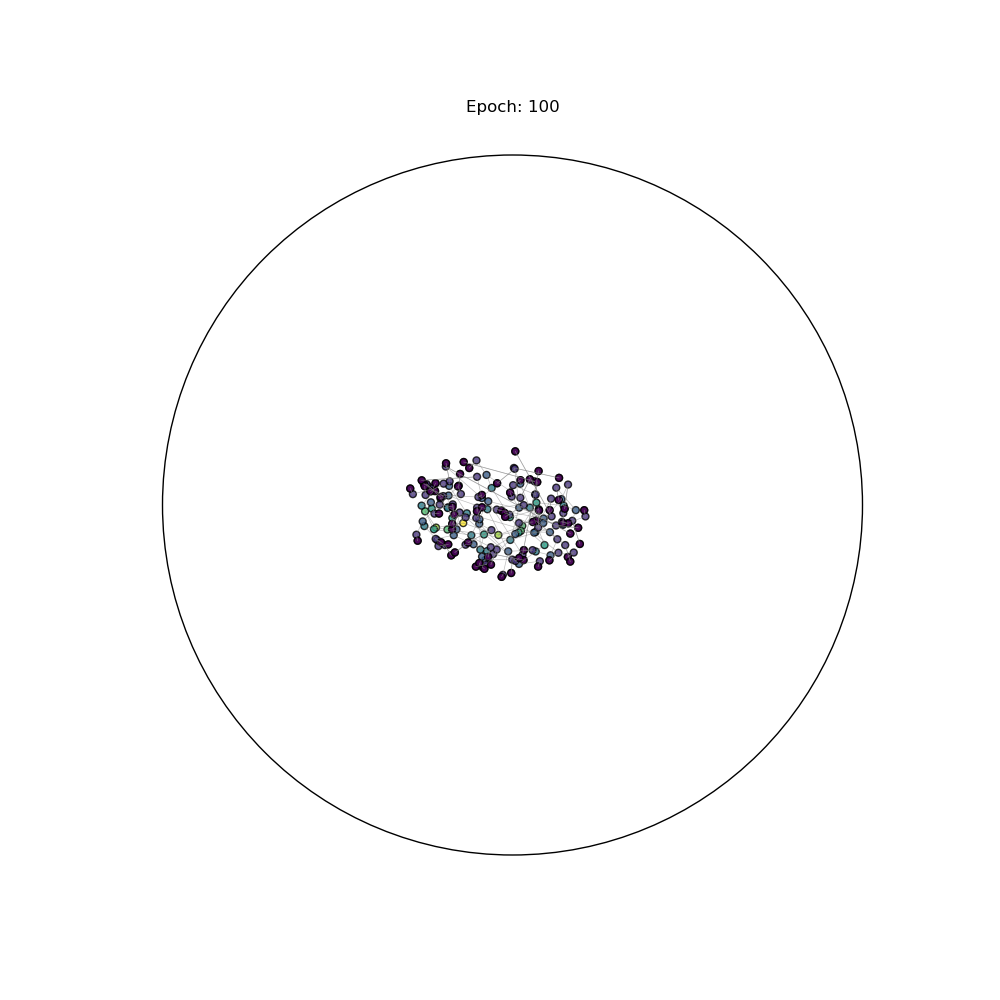
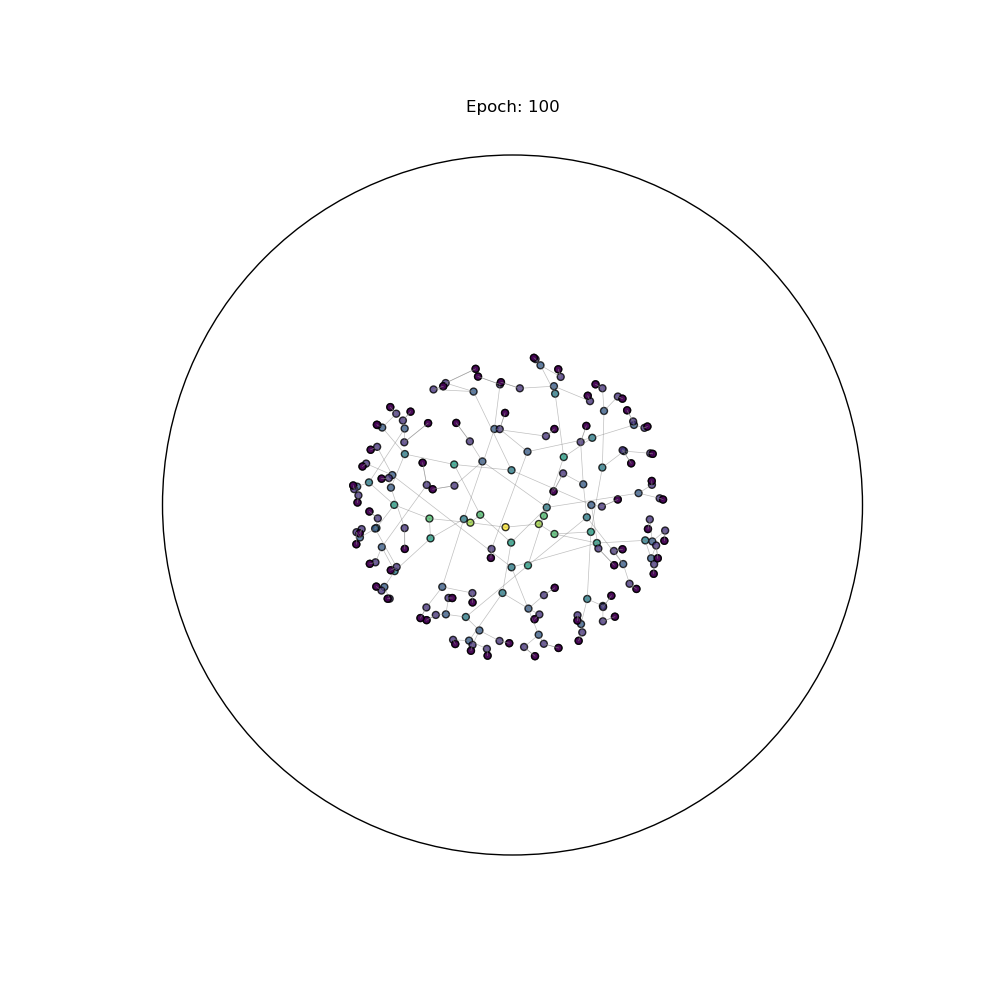
remove redundant code

Changed region(s): [[0.341, 0.341, 0.682, 0.682]]

diff --git a/minimal/train_hyper_synth.py b/minimal/train_hyper_synth.py
@@ -4,16 +4,18 @@ import os
 import torch
 import torch.optim as optim
 import networkx as nx
+import torch.nn as nn
 from models.hgcn import HGCN
 import matplotlib.pyplot as plt
 
 from manifolds.hyperboloid import Hyperboloid
 
-from utils.load_virginia import load_synthetic_data
+from utils.load_data import load_synthetic_data
 
 import shutil
 
-shutil.rmtree('./img')
+if os.path.exists('./img'):
+  shutil.rmtree('./img')
 os.mkdir("./img")
 
 
@@ -34,135 +36,75 @@ else:
 
 print("CUDA Status is: ", device)
 
-
 # Load data
-weight_mat, pos_mask, neg_mask, features, G = load_synthetic_data()
+adj, features, G = load_synthetic_data()
 
 paths = nx.shortest_path_length(G,0)
 
 colors = [x[1] for x in paths.items()]
 
-adj = []
-
-for idx1, row in enumerate(pos_mask):
-    for idx2, v in enumerate(row):
-      if v == 1 and idx2 >= idx1:
-        adj.append((idx1, idx2))
-
-
-
-# init_c = nn.Parameter(torch.Tensor([1.]))
-# init_c = 0.25
-# hid_c = nn.Parameter(torch.Tensor([0.6]))
-# out_c = nn.Parameter(torch.Tensor([0.5]))
-
-init_c = 1.
-hid_c = 0.6
-out_c = 0.2
+init_c = nn.Parameter(torch.Tensor([1.0]), requires_grad=False)
+hid_c = nn.Parameter(torch.Tensor([0.5]), requires_grad=False)
+out_c = nn.Parameter(torch.Tensor([0.25]), requires_grad=False)
 
 # Model and optimizer
 model = HGCN(nfeat=features.shape[1],
             nhid=32,
             nhid2=64,
-            nhid3=-1,
             nout=3,
             dropout=0.1,
             init_c=init_c,
             hid_c=hid_c,
             out_c=out_c)
 
-EPS = 1e-15
-
 model = model.to(device)
 # hyperbolic_model = model.to(device)
-weight_mat = weight_mat.to(device)
-pos_mask = pos_mask.to(device)
-neg_mask = neg_mask.to(device)
+adj = adj.to(device)
 features = features.to(device)
 
-N_pos = pos_mask.sum()
-N_neg = neg_mask.sum()
+adj_list = []
 
-dists = []
+for idx1, row in enumerate(adj):
+    for idx2, v in enumerate(row):
+      if v == 1 and idx2 >= idx1:
+        adj_list.append((idx1, idx2))
+
 
 # Train model
 t_total = time.time()
 loss_list = []
-neg_losses = []
-pos_losses = []
-outputs = []
-fermis = []
 
 fig = plt.figure(figsize=(10, 10))
 ax = fig.add_subplot(111)
 
-epochs = 1500
+epochs = 500
 
-optimizer = optim.Adam(model.parameters(), lr=1e-3, weight_decay=1e-5)
+optimizer = optim.Adam(model.parameters(), lr=5e-3, weight_decay=1e-5)
 
 for epoch in range(epochs):
 
     t = time.time()
     model.train()
     optimizer.zero_grad()
-    output, k = model(features, pos_mask) 
-    # print(features.shape, output.shape)
-    # output = output[:, 1:]
+    output, k = model(features, adj) 
 
     x_1 = output.repeat(output.size(0),1)
     x_2 = output.repeat_interleave(output.size(0),0)
 
     dist_mat = Hyperboloid().sqdist(x_1, x_2, c=out_c).view(output.size(0),output.size(0))
 
-    simi = dist_mat ** 0.5
-
-    pos_sim = simi * pos_mask
-    neg_sim = simi * neg_mask
-    h = simi * (weight_mat - pos_mask)
-
-    l1_loss = 0.
-    l2_loss = 0.
-
-    for p in model.parameters():
-        l1_loss += torch.linalg.norm(p,1)
-        l2_loss += torch.linalg.norm(p,2)
-
-
-    neg_sum = neg_sim.sum(dim=1).unsqueeze(1).repeat(1,output.size(0))
-    loss = torch.div(pos_sim, neg_sum).sum()
-
-    # loss = pos_sim.sum() / neg_sim.sum()
-
-    # loss /= h.sum()
-
     fermi_dirac = (1. + torch.exp(dist_mat)) ** -1.
 
-    loss = torch.nn.BCELoss()(fermi_dirac, pos_mask)
-
-    embeds_poincare = Hyperboloid().to_poincare(output, c=model.out_c).cpu().detach()
-
-    # loss += torch.norm(embeds_poincare) / 10
-
-    if epoch == 0:
-      init_pos = pos_sim.sum().item()
-      init_neg = neg_sim.sum().item()
-      init_loss = loss.item()
-      init_h = h.sum().item()
+    loss = torch.nn.BCELoss()(fermi_dirac, adj)
 
     loss_list.append(loss.item())
 
     loss.backward()
     optimizer.step()
 
-
-    # print("Poincare shape: ", embeds_poincare.size())
-    # print(embeddings[:15])
-    # print(" -> Poincare")
-    # print(embeds_poincare[:15])
-
     if epoch%25 == 0 or epoch == epochs - 1:
       model.eval()
-      output, k = model(features, pos_mask) 
+      output, k = model(features, adj) 
       plt.gca().add_patch(plt.Circle((0, 0), 1/model.out_c.item(), color='black', fill=False))
       plt.title("Epoch: " + str(epoch))
       
@@ -170,7 +112,7 @@ for epoch in range(epochs):
 
       plt.scatter(embeds_poincare[:,0], embeds_poincare[:,1], s=25, alpha=0.8, c=colors, cmap="viridis_r", edgecolors='black')
 
-      for pair in adj:
+      for pair in adj_list:
         plt.plot([embeds_poincare[pair[0]][0], embeds_poincare[pair[1]][0]], [embeds_poincare[pair[0]][1], embeds_poincare[pair[1]][1]], '-', 
         color="gray", alpha=0.5,linewidth=0.5)
     
@@ -179,15 +121,17 @@ for epoch in range(epochs):
       plt.savefig("img/" + str(epoch) + '.png')
       plt.cla()
 
+      if epoch < 25:
+        continue
       print('Epoch: {:04d}'.format(epoch),
           'Loss_Avg: {:.5f}'.format(sum(loss_list[-25:]) / 25),
           'Time: {:.4f}s'.format(time.time() - t),
           'C1: {:.2f}'.format(model.init_c.item()),
-          'C2: {:.2f}'.format(model.c2.item()),
+          'C2: {:.2f}'.format(model.hid_c.item()),
           'C3: {:.2f}'.format(model.out_c.item()),
           'Grd: {:.2f}'.format(sum([param.grad.abs().sum() if param.grad is not None else 0 for _, param in model.named_parameters()])),
           )
 
 print("Optimization Finished!")
 print("Total time elapsed: {:.4f}s".format(time.time() - t_total))
-print((fermi_dirac - pos_mask).abs().sum().item())
+print((fermi_dirac - adj).abs().sum().item())

diff --git a/minimal/models/hgcn.py b/minimal/models/hgcn.py
@@ -9,7 +9,7 @@ from layers.layers import HyperbolicGraphConvolution, HypLinear
 
 
 class HGCN(nn.Module):
-    def __init__(self, nfeat, nhid, nhid2, nhid3, nout, dropout, init_c=1/3, hid_c=1/2, out_c=1, use_bias=True, use_att=False, local_agg=False):
+    def __init__(self, nfeat, nhid, nhid2, nout, dropout, init_c=1/3, hid_c=1/2, out_c=1, use_bias=True, use_att=False, local_agg=False):
         super(HGCN, self).__init__()
 
         self.manifold = Hyperboloid()
@@ -19,13 +19,8 @@ class HGCN(nn.Module):
         self.hid_c = hid_c
         self.out_c = out_c
 
-        self.init_c = nn.Parameter(torch.Tensor([1.0]))
-        self.c2 = nn.Parameter(torch.Tensor([0.5]))
-        self.out_c = nn.Parameter(torch.Tensor([0.25]))
-        # self.c3 = nn.Parameter(torch.Tensor([2.]))
-
-        self.gc1 = HyperbolicGraphConvolution(self.manifold, nfeat+1, nhid, self.init_c, self.c2, 0.0, act=nn.ReLU(), use_bias=use_bias, use_att=use_att, local_agg=local_agg)
-        self.gc2 = HyperbolicGraphConvolution(self.manifold, nhid, nhid2, self.c2, self.out_c, dropout, act=nn.ReLU(), use_bias=use_bias, use_att=use_att, local_agg=local_agg)
+        self.gc1 = HyperbolicGraphConvolution(self.manifold, nfeat+1, nhid, self.init_c, self.hid_c, 0.0, act=nn.ReLU(), use_bias=use_bias, use_att=use_att, local_agg=local_agg)
+        self.gc2 = HyperbolicGraphConvolution(self.manifold, nhid, nhid2, self.hid_c, self.out_c, dropout, act=nn.ReLU(), use_bias=use_bias, use_att=use_att, local_agg=local_agg)
         # self.gc4 = HyperbolicGraphConvolution(self.manifold, nhid3, nout, self.out_c, self.out_c, dropout, act=None, use_bias=use_bias, use_att=use_att, local_agg=local_agg)
         self.l1 = HypLinear(self.manifold, nhid2, nout, c=self.out_c, dropout=dropout, use_bias=use_bias)
         

diff --git a/minimal/utils/load_data.py b/minimal/utils/load_data.py
@@ -1,0 +1,15 @@
+import networkx as nx
+import torch
+import numpy as np
+
+
+def load_synthetic_data():
+    tree = nx.balanced_tree(2, 7)
+    adj = nx.to_numpy_matrix(tree)
+
+    features = np.eye(len(adj))
+
+    adj = torch.tensor(adj).float()
+    features = torch.tensor(features).float()
+
+    return adj, features, tree
